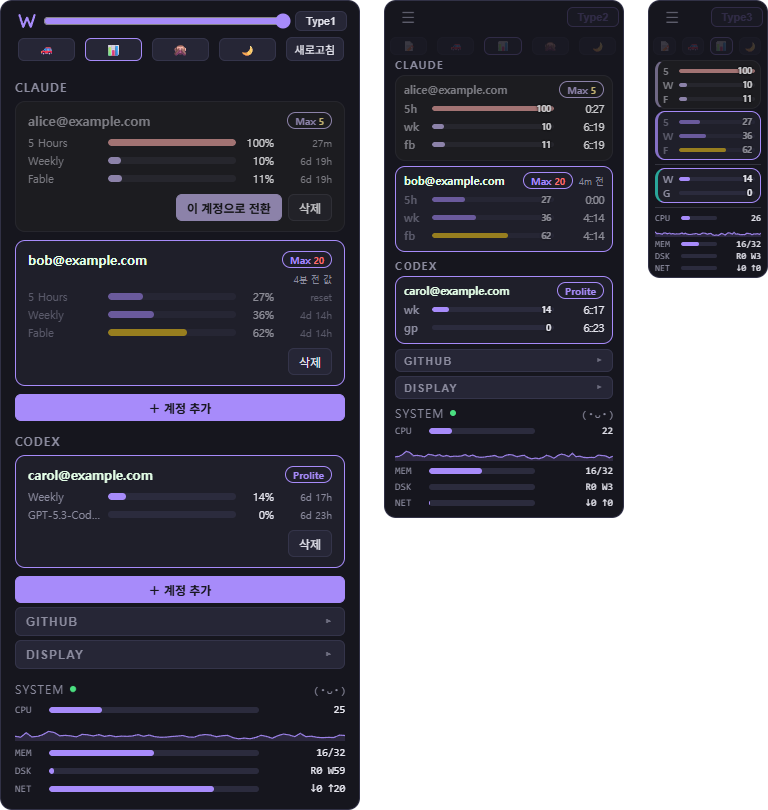
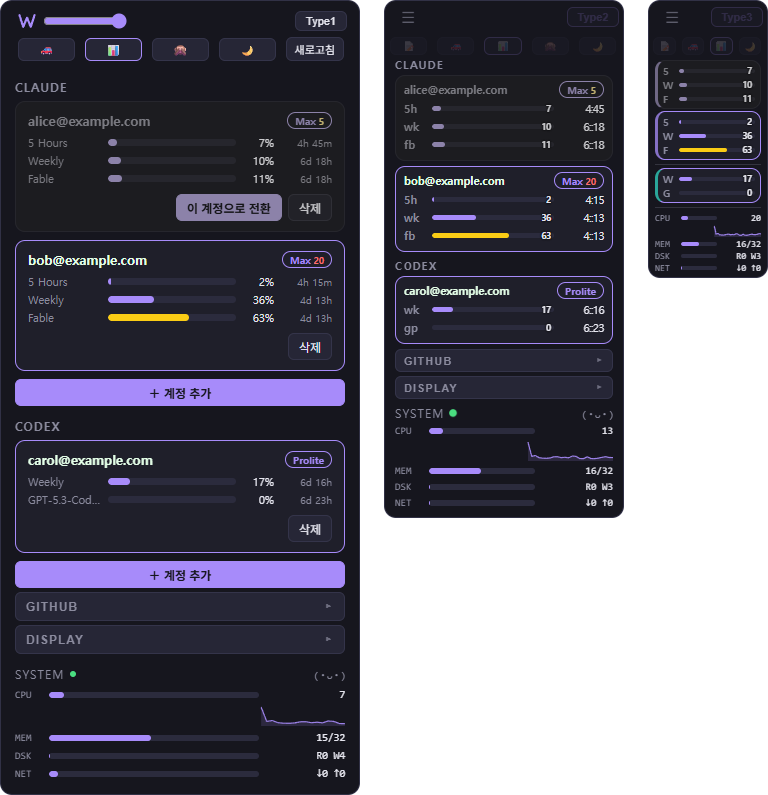
fix+docs: 투명도 슬라이더 84px 원복·🚗 T배지 수정 + README 실촬영 재정비, v1.7.33 (사용자 질책·요청)
- 타이틀바 투명도 슬라이더를 v1.7.12 사용자 확정 폭(84px)으로 원복 —
  2줄 통일(v1.7.29) 때 '1줄을 채운다'며 max-width:none으로 무단 확장됐던 것.
  CSS 주석에 조정값임을 명시해 재발 방지
- tfsd_toggle에 visibility-changed emit 추가 — 🚗로 켜면 트레이 경로와 달리
  활성 카드 T 워터마크가 다음 갱신까지 안 뜨던 누락 (실측: 배지 0 → 2)
- README 이미지 재정비 (전부 실촬영·개인정보 치환 검사 통과):
  · hero 재촬영 (슬라이더 원복 반영) · 투명도 GIF 57프레임 12fps로 부드럽게
  · 블랙 모니터 GIF 신규 (실제 오버레이에 커서 궤적·ESC 해제 연출 합성 촬영)
  · TFSD 스크린샷 신규 (T 워터마크 실표시 상태)
  · 크기 비교 사진 추가 (사용자 제공 — ChatGPT 앱 펫과 Type3 나란히)
- 버전 셋 1.7.33 (릴리스는 사용자 확인 후)

diff --git a/src/styles.css b/src/styles.css
@@ -81,12 +81,14 @@ input[type="range"] {
   accent-color: var(--accent);
 }
 
-/* 타이틀바 투명도 슬라이더 — 2줄 구도의 1줄 가운데를 채운다
+/* 타이틀바 투명도 슬라이더는 짧게(84px) — v1.7.12에서 사용자가 확정한 폭.
+   2줄 통일(v1.7.29) 때 "1줄을 채운다"며 무단으로 늘렸다가 질책받고 원복
+   (2026-08-10). 이 폭은 사용자 조정값이다 — 지시 없이 바꾸지 말 것.
    (디스플레이 밝기 슬라이더는 위 일반 규칙 그대로) */
 #alpha {
-  flex: 1 1 84px;
+  flex: 0 1 84px;
   min-width: 48px;
-  max-width: none;
+  max-width: 84px;
 }
 
 /* 메모 버튼은 Type2·3에서 — Type1은 타이틀바가 이미 꽉 차 버튼이 밀린다

diff --git a/src-tauri/src/lib.rs b/src-tauri/src/lib.rs
@@ -798,7 +798,11 @@ struct Visibility {
 /// 켜짐 표시가 즉시 따라온다.
 #[tauri::command]
 fn tfsd_toggle(app: tauri::AppHandle) -> bool {
+    use tauri::Emitter;
     toggle_flag(&app, settings::KEY_TFSD, false);
+    // 트레이 토글과 같은 경로 — 이게 없으면 프론트 visibility가 낡아 활성
+    // 카드의 T 배지가 다음 갱신까지 안 뜬다 (실측: 🚗로 켜도 배지 부재)
+    let _ = app.emit("visibility-changed", ());
     Env::real()
         .map(|env| settings::load_flag(&env.store, settings::KEY_TFSD, false))
         .unwrap_or(false)

diff --git a/README.md b/README.md
@@ -95,6 +95,10 @@ switcher는 이 과정을 없앤다. 계정마다 처음 한 번만 로그인해
 - 구독 레벨: 계정 옆에 Max(5x는 노랑, 20x는 빨강) / Pro / Plus가 붙는다.
 - 모드(Type1/2/3): 전체 → 컴팩트 → 미니멀(120px) 순환. 컴팩트·미니멀에서는 클릭·드래그가 뒤 창으로 통과하고, 계정 카드를 더블클릭하면 전환된다. 사용량 바 위에 사용률 숫자가 함께 표시된다. 창 이동은 ☰ 핸들.
 - 섹션 순서 바꾸기: Type1에서 섹션 머리글(CLAUDE·CODEX·GITHUB·DISPLAY·SYSTEM)을 잡아 끌면 순서가 바뀐다.
+
+<p align="center"><img src="https://raw.githubusercontent.com/Youkamii/switcher/main/docs/size-compare.png" width="560" alt="Type 3 크기 비교 — ChatGPT 데스크톱 앱 펫(최소 크기) 옆에 놓은 미니멀 위젯" /></p>
+<p align="center"><sub>Type 3 (폭 120px) — ChatGPT 데스크톱 앱의 펫(최소 크기)과 나란히</sub></p>
+
 - 창 높이는 내용에 맞춰 자동 조절된다. 투명도 슬라이더를 내리면 배경이 먼저, 골조가 나중에 옅어진다 — 최하에서는 그래프만 남는다.
 
 <p align="center"><img src="https://raw.githubusercontent.com/Youkamii/switcher/main/docs/transparency.gif" width="140" alt="투명도 슬라이더 — 배경부터 골조까지 단계적으로 옅어진다" /></p>
@@ -111,9 +115,14 @@ switcher는 이 과정을 없앤다. 계정마다 처음 한 번만 로그인해
 - 자동 업데이트·부팅 시 자동 실행: 트레이 설정에서 켜고 끈다. 바탕화면 바로가기는 Windows 전용.
 - GitHub 계정 전환: gh CLI에 로그인된 계정들을 위젯에서 전환 — git push/pull(HTTPS)이 활성 계정을 따라간다. 사용량 표시는 없음.
 - 블랙 모니터: 🌙 버튼 또는 트레이 메뉴로 모든 화면을 최상위 검은 막으로 덮는다. 마우스를 움직이면 주변만 연기 걷히듯 비치고, 마우스를 1~2초 세게 흔들거나 ESC로 해제 — 마지막 커서 자리에서 빛이 퍼지며 걷힌다. macOS는 전체화면 앱 위는 덮지 못한다.
+
+<p align="center"><img src="https://raw.githubusercontent.com/Youkamii/switcher/main/docs/black.gif" width="480" alt="블랙 모니터 — 커서 주변만 연기 걷히듯 비치고, ESC로 걷힌다 (실화면 녹화)" /></p>
+
 - 계정 정보 가리기: 🙈 버튼으로 카드의 이메일·GitHub 계정명을 블러 처리 — 화면 공유·스크린샷 노출 방지. 다시 누르면 해제.
 - 화면 밝기 조절: DISPLAY 섹션의 모니터별 슬라이더로 실제 백라이트를 조절한다 (Windows는 DDC/CI, macOS는 내장 디스플레이). DDC/CI가 꺼진 모니터와 맥의 외장 모니터는 미지원 안내가 뜬다.
-- TFSD (Token Full Self-Driving): 활성 계정의 사용량 창(5 Hours·Weekly·Fable 등) 중 하나라도 90%에 닿으면, 모든 창에 여유가 있는 계정 중 병목이 가장 낮은 곳으로 자동 전환. 꽉 찬 창이 30분 안에 리셋되면 전환 대신 대기. 타이틀바 🚗 버튼 또는 트레이 설정에서 켠다 (기본 꺼짐).
+- TFSD (Token Full Self-Driving): 활성 계정의 사용량 창(5 Hours·Weekly·Fable 등) 중 하나라도 90%에 닿으면, 모든 창에 여유가 있는 계정 중 병목이 가장 낮은 곳으로 자동 전환. 꽉 찬 창이 30분 안에 리셋되면 전환 대신 대기. 타이틀바 🚗 버튼 또는 트레이 설정에서 켠다 (기본 꺼짐) — 자율주행 중에는 활성 카드에 T 워터마크가 뜬다.
+
+<p align="center"><img src="https://raw.githubusercontent.com/Youkamii/switcher/main/docs/tfsd.png" width="300" alt="TFSD 자율주행 중 — 활성 카드에 T 워터마크" /></p>
 
 ## 동작
 
